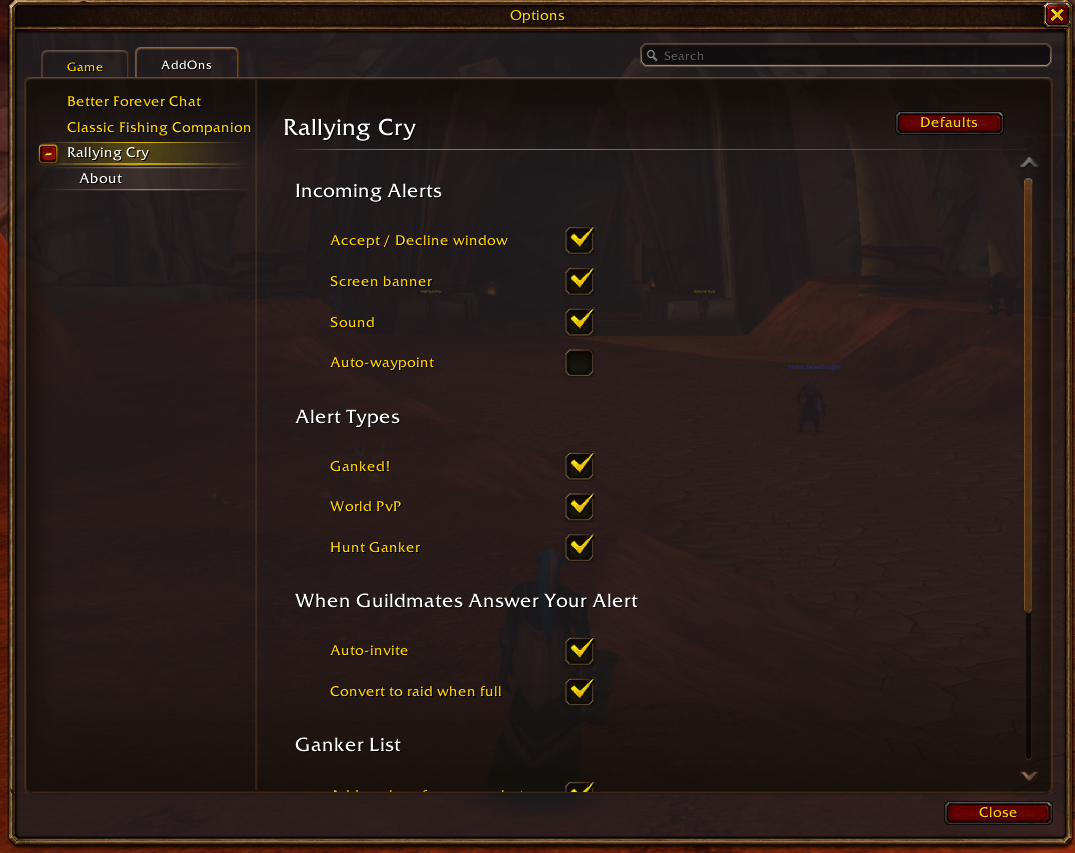
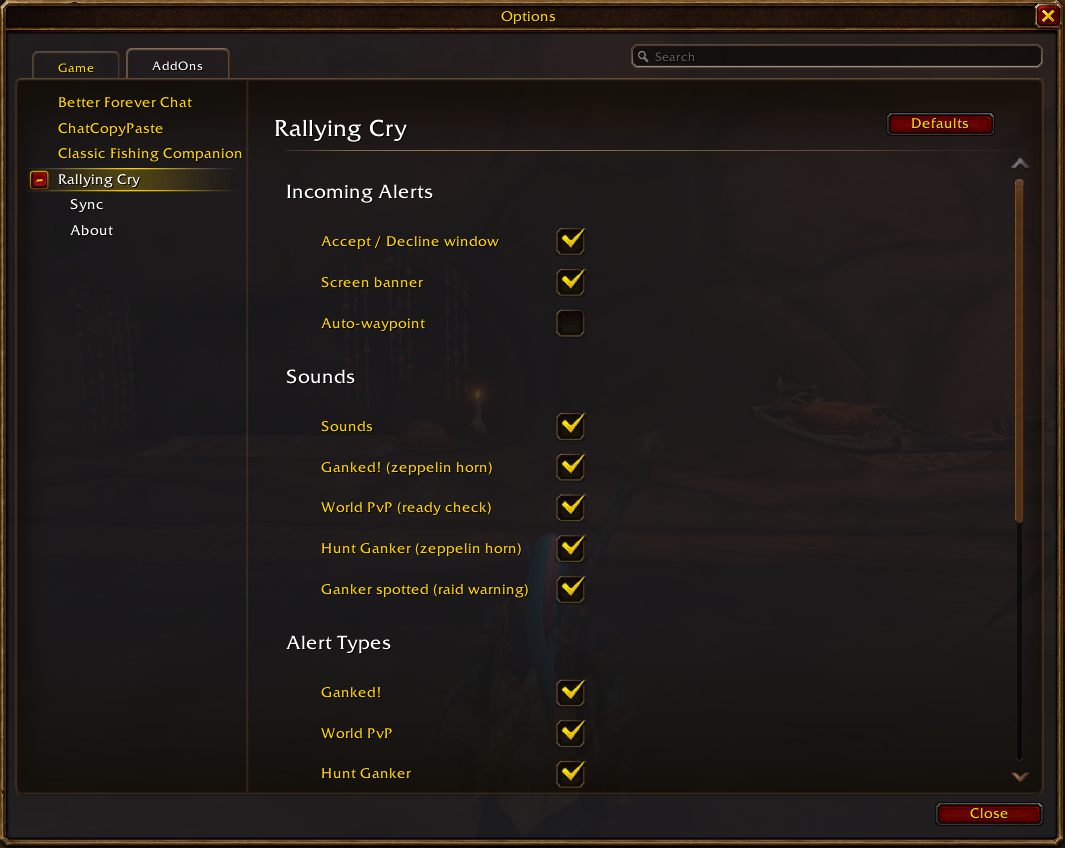
Update the settings and Sync screenshots, add Sync to the CurseForge page

diff --git a/docs/curseforge.md b/docs/curseforge.md
@@ -52,6 +52,8 @@ Guildmates get a banner, a sound, and an **Accept / Decline** window. Accept set
 
 There's no server and no account. The list lives on every guildmate's computer and stays in step over the guild channel. Changes go out in a second or two, and you catch up on anything you missed when you log in. Each guild has its own list, so an alt in another guild never sees or sends your main guild's list. Officers can export a backup and restore it.
 
+![Sync page](https://raw.githubusercontent.com/DigitalPenguin1/RallyingCry/main/docs/images/sync.png)
+
 ## Getting around
 
 - **Minimap button**: left-click for the panel, Shift-click for the ganker list, right-click for settings
